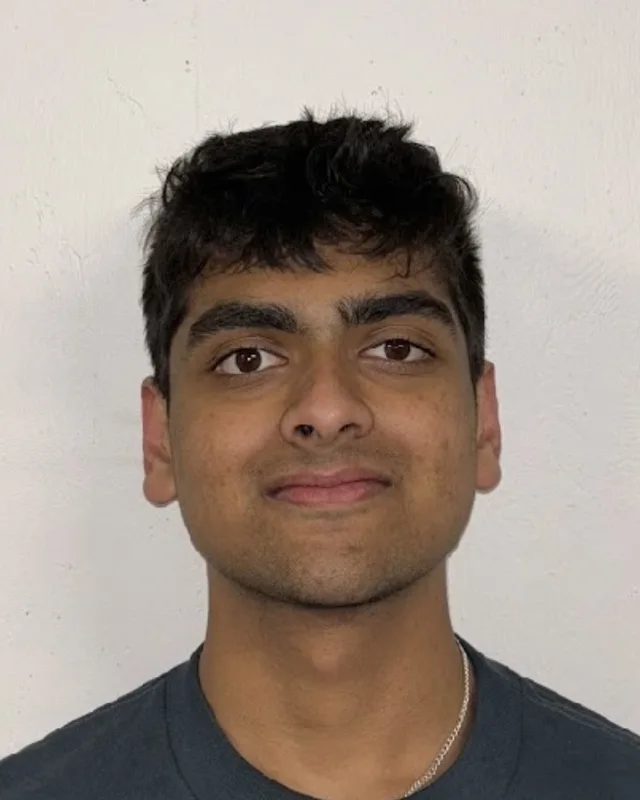
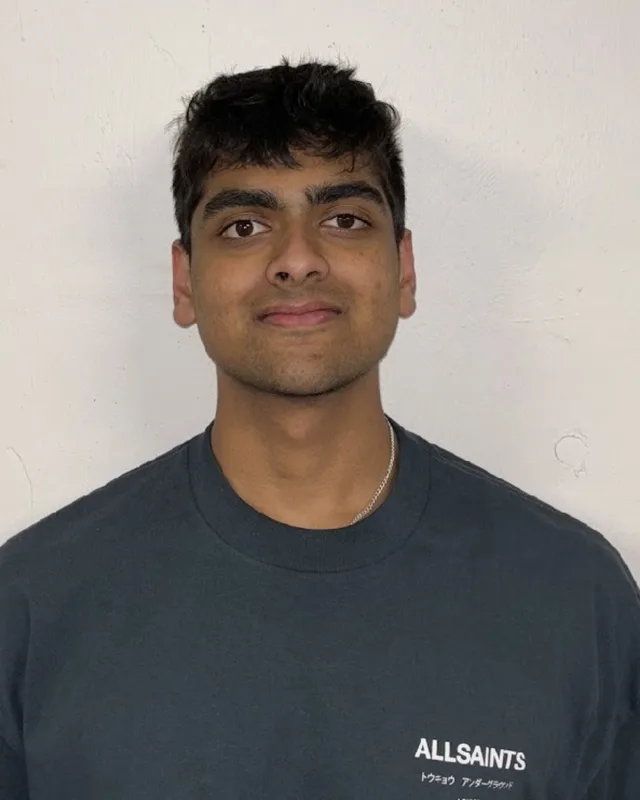
Portrait: wider crop with headroom and shoulders, slightly larger frame
Claude-Session: https://claude.ai/code/session_01A4tsgcs6vcjeJpjw4Ax3g5

diff --git a/css/refine.css b/css/refine.css
@@ -109,7 +109,7 @@
 .band .close-side { display: grid; gap: 18px; justify-items: start; }
 .band .links { display: flex; flex-wrap: wrap; gap: 12px; }
 .band .me {
-  width: min(100%, 240px); height: auto; aspect-ratio: 4 / 5; object-fit: cover; border-radius: 22px;
+  width: min(100%, 270px); height: auto; aspect-ratio: 4 / 5; object-fit: cover; border-radius: 22px;
   border: 1px solid rgba(255,255,255,.25); box-shadow: 0 24px 48px -28px rgba(0,0,0,.7);
 }
 @media (min-width: 860px) { .band .close-side { justify-items: end; } .band .links { justify-content: flex-end; } }

diff --git a/index.html b/index.html
@@ -23,7 +23,7 @@
   <link rel="preload" as="font" type="font/woff2" crossorigin href="assets/fonts/hanken-grotesk-latin-wght-normal.woff2">
   <link rel="stylesheet" href="css/style.css?v=20261028l">
   <link rel="stylesheet" href="css/glass.css?v=20261028l">
-  <link rel="stylesheet" href="css/refine.css?v=20261109b">
+  <link rel="stylesheet" href="css/refine.css?v=20261109c">
 </head>
 <body>
   <a class="skip" href="#main">Skip to content</a>
